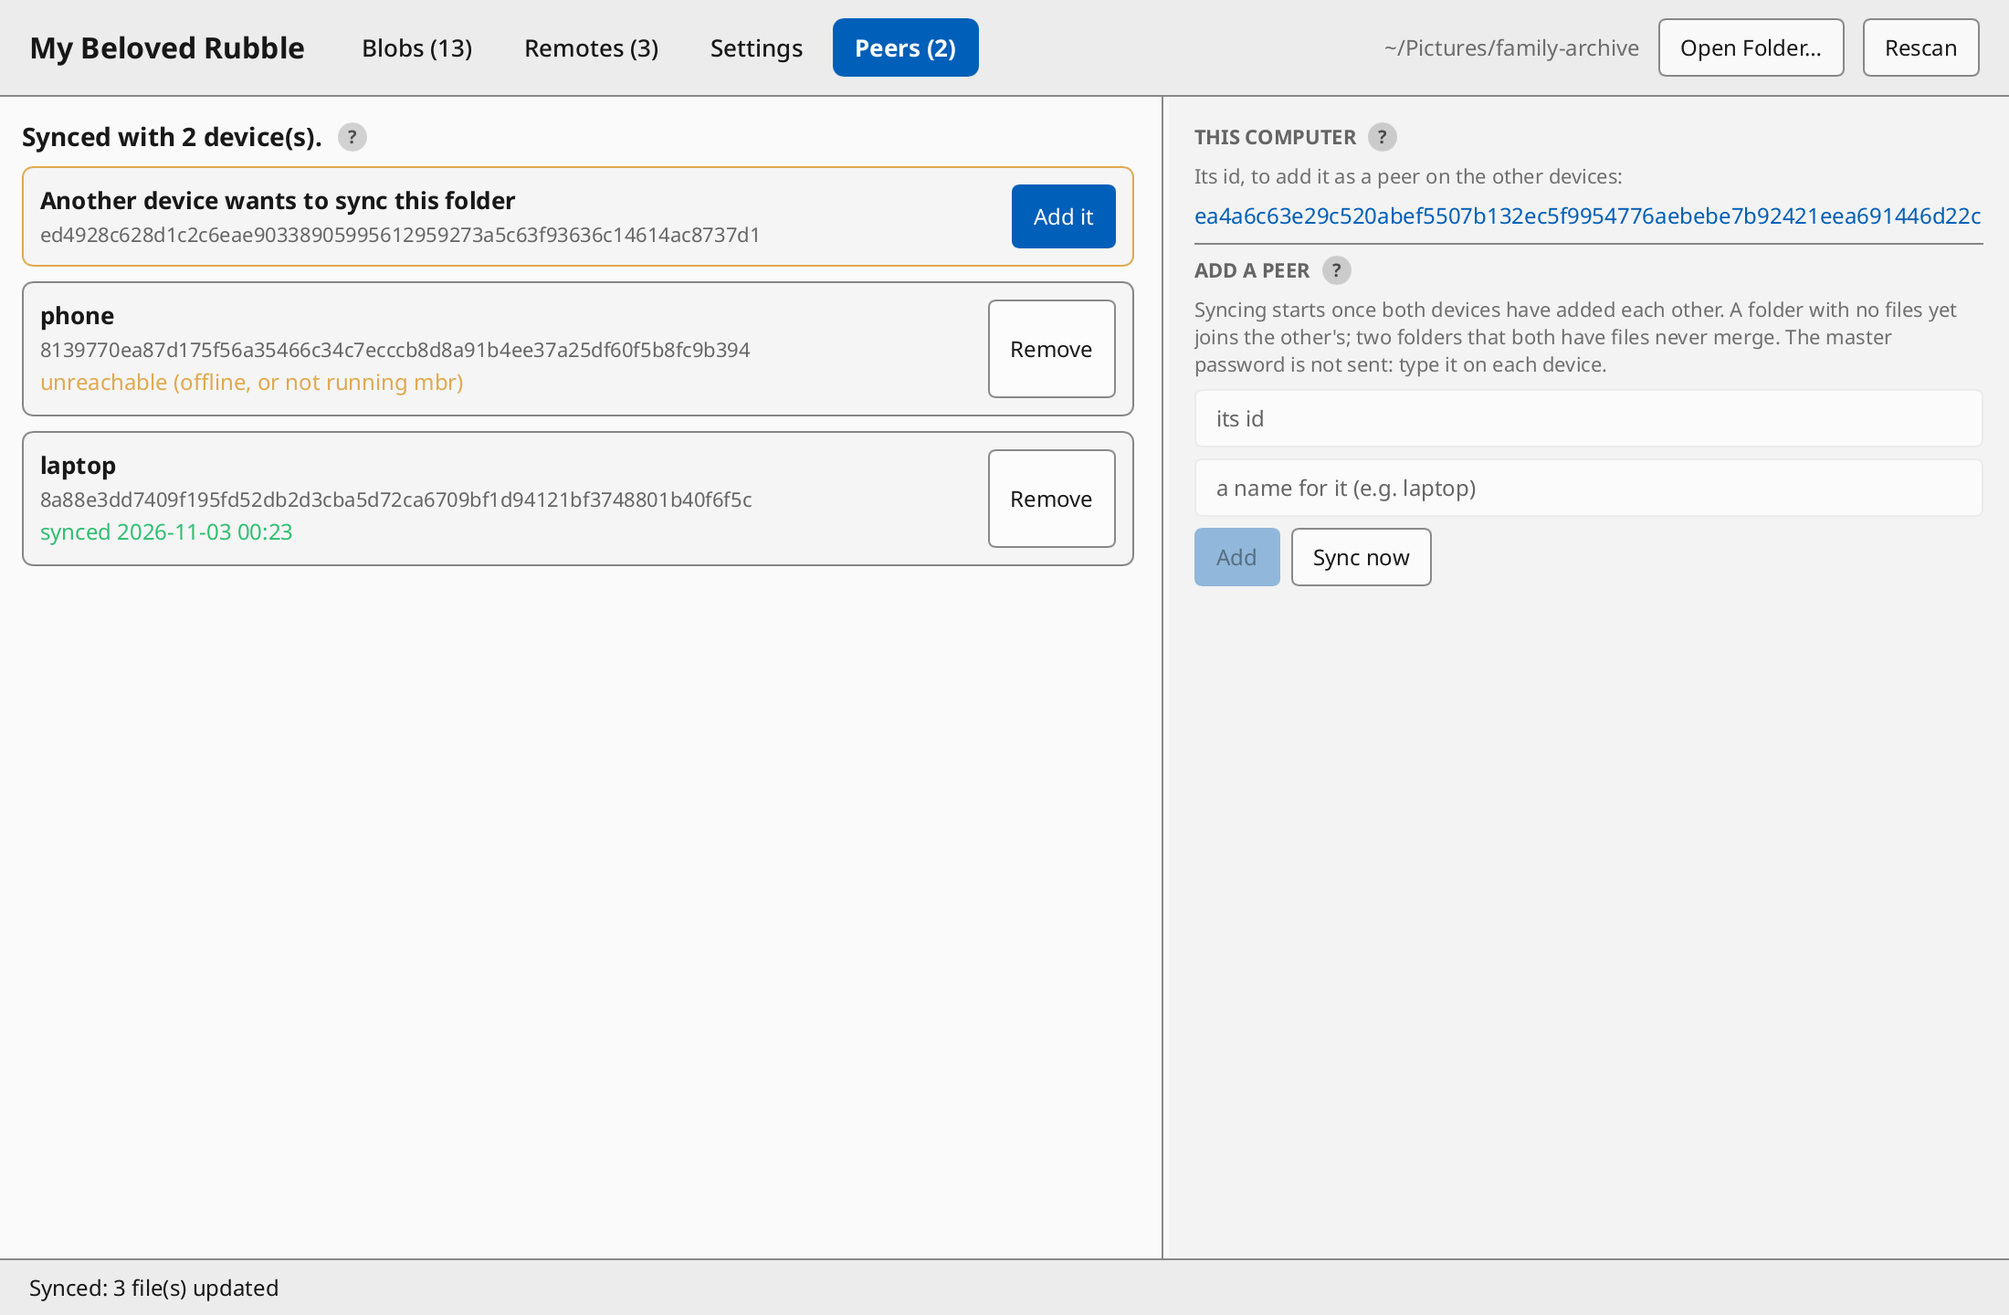
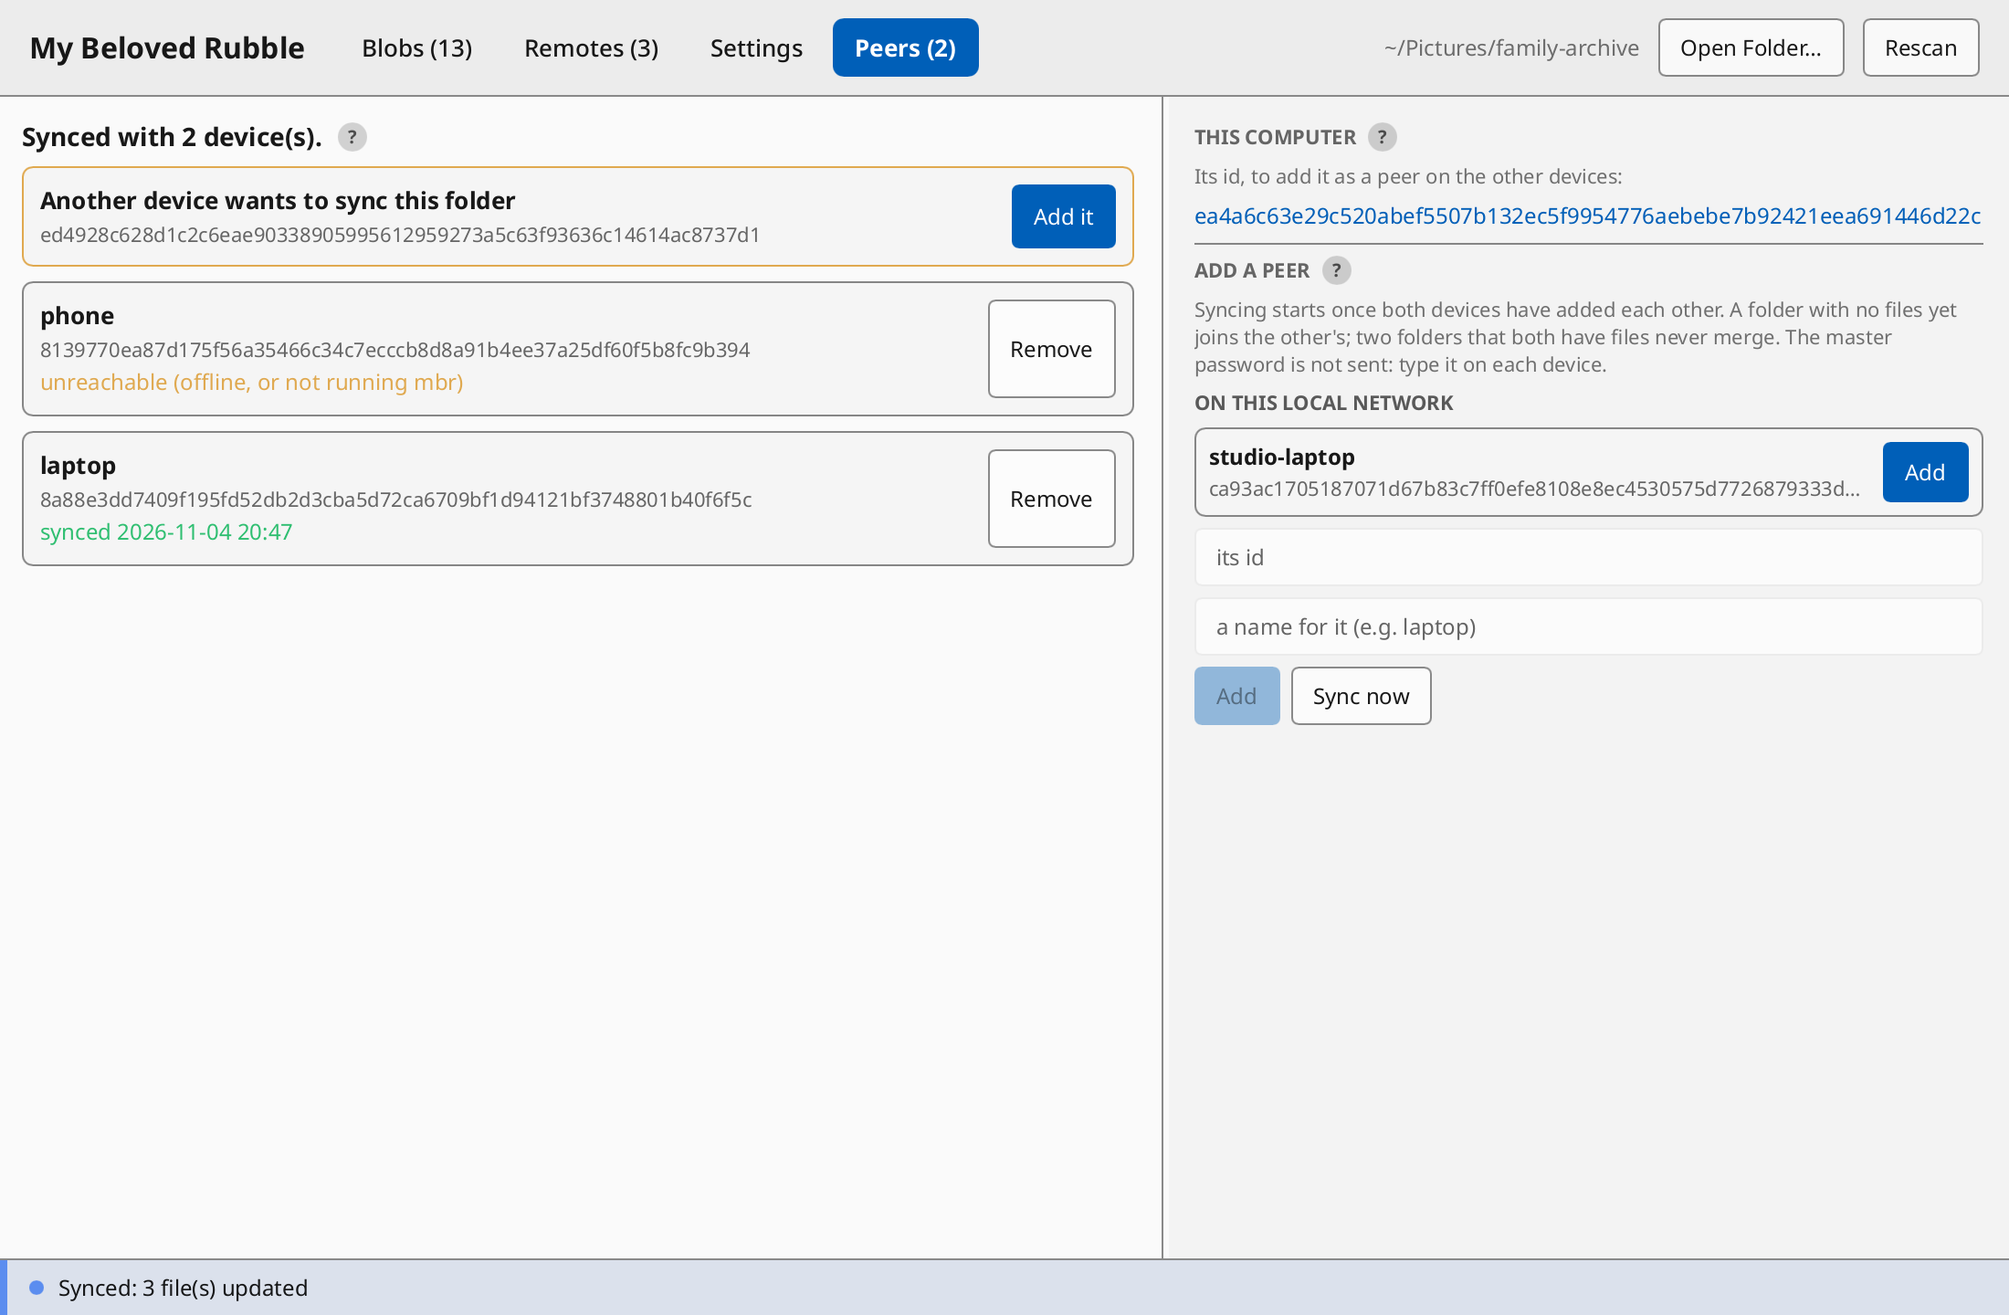
Suggest local network peers in the add-peer screen

Changed region(s): [[0.5873, 0.2812, 0.8964, 0.5625], [0.9273, 0.3125, 0.9891, 0.4062], [0.0, 0.9688, 0.1545, 1.0]]

diff --git a/src/gui.rs b/src/gui.rs
@@ -175,7 +175,12 @@ impl Msg {
     /// Whether handling the message may change what the views show
     /// beyond what it updates itself.
     fn changes_the_folder(&self) -> bool {
-        !matches!(self, Msg::Thumb { .. } | Msg::Preview { .. })
+        !matches!(
+            self,
+            Msg::Thumb { .. }
+                | Msg::Preview { .. }
+                | Msg::Peer(peers::Event::Discovered { .. } | peers::Event::Gone { .. })
+        )
     }
 }
 
@@ -302,6 +307,9 @@ struct App {
     peer_status: RefCell<BTreeMap<String, (String, bool)>>,
     /// Devices that tried to sync but aren't peers.
     knocking: RefCell<BTreeSet<String>>,
+    /// mbr devices found on the local network, by id: their suggested
+    /// names, if they say.
+    nearby: RefCell<BTreeMap<String, String>>,
     /// A sync brought changes in during a scan: applied once it ends.
     sync_pending: Cell<bool>,
     /// Previews of image files, by blob hash, for the file list.
@@ -595,6 +603,7 @@ pub fn run() -> Result<(), slint::PlatformError> {
         node: RefCell::new(None),
         peer_status: RefCell::new(BTreeMap::new()),
         knocking: RefCell::new(BTreeSet::new()),
+        nearby: RefCell::new(BTreeMap::new()),
         sync_pending: Cell::new(false),
         thumbs: RefCell::default(),
         no_thumb: RefCell::default(),
@@ -902,6 +911,10 @@ pub fn run() -> Result<(), slint::PlatformError> {
     }
     {
         let app = app.clone();
+        w.on_peers_visible(move |visible| app.peers_visible(visible));
+    }
+    {
+        let app = app.clone();
         w.on_remove_peer(move |id| app.remove_peer(&id));
     }
     {
@@ -1082,6 +1095,7 @@ impl App {
         *self.selection.borrow_mut() = Selection::default();
         self.peer_status.borrow_mut().clear();
         self.knocking.borrow_mut().clear();
+        self.nearby.borrow_mut().clear();
         self.sync_pending.set(false);
         self.close_editor();
         self.start_node();
@@ -1097,6 +1111,9 @@ impl App {
         *self.selection.borrow_mut() = Selection::default();
         self.close_editor();
         self.reset_setup_ui();
+        self.peer_status.borrow_mut().clear();
+        self.knocking.borrow_mut().clear();
+        self.nearby.borrow_mut().clear();
         self.refresh();
     }
 
@@ -1857,7 +1874,30 @@ impl App {
 
     // ── peers ──
 
-    /// Start syncing the open folder with its peers, if it has any.
+    /// Listen for devices on the local network while the Peers tab is
+    /// shown, even with no peers yet, and stop again when it is left (a
+    /// folder with peers keeps syncing regardless).
+    fn peers_visible(&self, visible: bool) {
+        if visible {
+            if self.node.borrow().is_none() {
+                self.start_node();
+            } else {
+                self.refresh_peers();
+            }
+            return;
+        }
+        let has_peers = self
+            .root()
+            .is_some_and(|root| !self.state.borrow().repo(&root).peers.is_empty());
+        if !has_peers {
+            *self.node.borrow_mut() = None;
+            self.nearby.borrow_mut().clear();
+        }
+        self.refresh_peers();
+    }
+
+    /// Start syncing the open folder with its peers (and, while the Peers
+    /// tab is open, listening for devices on the local network).
     fn start_node(&self) {
         *self.node.borrow_mut() = None;
         let Some(root) = self.root() else { return };
@@ -1868,8 +1908,10 @@ impl App {
             (key, repo_state.peers.keys().cloned().collect::<Vec<_>>())
         };
         self.save_state();
-        // No network activity for folders that aren't synced.
-        if ids.is_empty() {
+        // No network activity for folders that aren't synced, unless the
+        // Peers tab is open: then listen for devices to suggest on the
+        // local network.
+        if ids.is_empty() && self.window.get_active_tab() != 3 {
             return;
         }
         let Some(shared) = self.repo.borrow().as_ref().map(|r| r.db.shared()) else {
@@ -1968,7 +2010,7 @@ impl App {
             .keys()
             .cloned()
             .collect();
-        if ids.is_empty() {
+        if ids.is_empty() && self.window.get_active_tab() != 3 {
             *self.node.borrow_mut() = None;
         } else if let Some(node) = self.node.borrow().as_ref() {
             node.set_peers(&ids);
@@ -2015,6 +2057,20 @@ impl App {
                     self.knocking.borrow_mut().insert(peer);
                 }
             }
+            peers::Event::Discovered { peer, name } => {
+                let changed = match self.nearby.borrow_mut().insert(peer, name.clone()) {
+                    None => true,
+                    Some(previous) => previous != name,
+                };
+                if changed {
+                    self.refresh_peers();
+                }
+            }
+            peers::Event::Gone { peer } => {
+                if self.nearby.borrow_mut().remove(&peer).is_some() {
+                    self.refresh_peers();
+                }
+            }
         }
     }
 
@@ -2050,6 +2106,8 @@ impl App {
         let Some(root) = self.root() else {
             w.set_device_id(SharedString::default());
             w.set_peer_rows(ModelRc::default());
+            w.set_nearby_peers(ModelRc::default());
+            w.set_discovering(false);
             w.set_peer_count(0);
             return;
         };
@@ -2088,6 +2146,23 @@ impl App {
         }));
         w.set_peer_count(known.len() as i32);
         w.set_peer_rows(ModelRc::new(VecModel::from(rows)));
+
+        let self_id = peers::device_id(&key);
+        let knocking = self.knocking.borrow();
+        let nearby: Vec<NearbyPeer> = self
+            .nearby
+            .borrow()
+            .iter()
+            .filter(|(id, _)| {
+                **id != self_id && !known.contains_key(*id) && !knocking.contains(*id)
+            })
+            .map(|(id, name)| NearbyPeer {
+                id: id.as_str().into(),
+                name: name.as_str().into(),
+            })
+            .collect();
+        w.set_nearby_peers(ModelRc::new(VecModel::from(nearby)));
+        w.set_discovering(self.node.borrow().is_some() && w.get_active_tab() == 3);
     }
 
     /// Snapshot the metadata here, then encrypt and upload it to every

diff --git a/src/peers.rs b/src/peers.rs
@@ -28,11 +28,13 @@
 //! [iroh]: https://iroh.computer
 
 use crate::db::Shared;
-use iroh::address_lookup::MemoryLookup;
+use iroh::address_lookup::{MemoryLookup, UserData};
 use iroh::endpoint::{Connection, RecvStream, SendStream, VarInt, presets};
 use iroh::{Endpoint, EndpointAddr, EndpointId, SecretKey};
 use iroh_docs::SyncOutcome;
 use iroh_docs::sync::ProtocolMessage;
+use iroh_mdns_address_lookup::{DiscoveryEvent, MdnsAddressLookup};
+use n0_future::StreamExt;
 use serde::{Deserialize, Serialize};
 use std::collections::BTreeSet;
 use std::sync::{Arc, Mutex};
@@ -40,6 +42,9 @@ use std::time::Duration;
 
 /// The sync protocol, as iroh negotiates it.
 pub const ALPN: &[u8] = b"mbr/sync/0";
+/// The mDNS service name mbr devices advertise, so discovery finds other
+/// mbr devices rather than every iroh endpoint on the network.
+const MDNS_SERVICE: &str = "mbr";
 /// The largest message accepted.
 const MAX_MESSAGE: usize = 64 << 20;
 /// How long finding and reaching a peer may take.
@@ -68,6 +73,11 @@ pub enum Event {
     Failed { peer: String, error: String },
     /// A device that isn't a peer tried to sync: add it to sync with it.
     Refused { peer: String },
+    /// A device running mbr was found on the local network. `name` is what
+    /// it calls itself, if it says.
+    Discovered { peer: String, name: String },
+    /// A discovered device stopped announcing itself.
+    Gone { peer: String },
 }
 
 #[derive(Serialize, Deserialize)]
@@ -128,6 +138,21 @@ pub fn check_device_id(id: &str) -> Result<String, String> {
         .map_err(|_| format!("'{}' is not a device id", id.trim()))
 }
 
+/// What this device calls itself in discovery, if anything: a hostname,
+/// so other devices can suggest a friendlier name than the id.
+fn local_name() -> Option<UserData> {
+    let name = ["MBR_DEVICE_NAME", "HOSTNAME", "COMPUTERNAME"]
+        .iter()
+        .find_map(|key| std::env::var(key).ok())
+        .or_else(|| std::fs::read_to_string("/proc/sys/kernel/hostname").ok())
+        .or_else(|| std::fs::read_to_string("/etc/hostname").ok())?;
+    let name = name.trim();
+    if name.is_empty() {
+        return None;
+    }
+    UserData::try_from(name.to_owned()).ok()
+}
+
 type Listener = Arc<dyn Fn(Event) + Send + Sync>;
 
 /// The folder's iroh endpoint: accepts syncs from its peers, and syncs
@@ -159,24 +184,40 @@ impl Node {
             .build()
             .map_err(|e| e.to_string())?;
         let known = MemoryLookup::new();
-        let endpoint = rt.block_on(async {
-            let endpoint = Endpoint::builder(presets::N0)
+        let (endpoint, mdns) = rt.block_on(async {
+            let mut builder = Endpoint::builder(presets::N0)
                 .secret_key(SecretKey::from_bytes(&key))
                 .alpns(vec![ALPN.to_vec()])
-                .address_lookup(known.clone())
+                .address_lookup(known.clone());
+            if let Some(name) = local_name() {
+                builder = builder.user_data_for_address_lookup(name);
+            }
+            let endpoint = builder
                 .bind()
                 .await
                 .map_err(|e| format!("cannot start syncing: {e}"))?;
             // Peers on the same network find each other without the
             // internet, where the network allows it.
-            match iroh_mdns_address_lookup::MdnsAddressLookup::builder().build(endpoint.id()) {
+            let mdns = match MdnsAddressLookup::builder()
+                .service_name(MDNS_SERVICE)
+                .build(endpoint.id())
+            {
                 Ok(mdns) => match endpoint.address_lookup() {
-                    Ok(lookup) => lookup.add(mdns),
-                    Err(e) => log::warn!("no local network discovery: {e}"),
+                    Ok(lookup) => {
+                        lookup.add(mdns.clone());
+                        Some(mdns)
+                    }
+                    Err(e) => {
+                        log::warn!("no local network discovery: {e}");
+                        None
+                    }
                 },
-                Err(e) => log::warn!("no local network discovery: {e}"),
-            }
-            Ok::<_, String>(endpoint)
+                Err(e) => {
+                    log::warn!("no local network discovery: {e}");
+                    None
+                }
+            };
+            Ok::<_, String>((endpoint, mdns))
         })?;
         let node = Self {
             rt,
@@ -193,6 +234,33 @@ impl Node {
             node.peers.clone(),
             node.listener.clone(),
         ));
+        if let Some(mdns) = mdns {
+            let listener = node.listener.clone();
+            let known = node.known.clone();
+            node.rt.spawn(async move {
+                let mut events = mdns.subscribe().await;
+                while let Some(event) = events.next().await {
+                    match event {
+                        DiscoveryEvent::Discovered { endpoint_info, .. } => {
+                            // Keep the address, so adding the device can
+                            // sync with it even if its mDNS record expires.
+                            known.add_endpoint_info(endpoint_info.to_endpoint_addr());
+                            listener(Event::Discovered {
+                                peer: endpoint_info.endpoint_id.to_string(),
+                                name: endpoint_info
+                                    .user_data()
+                                    .map(|name| name.to_string())
+                                    .unwrap_or_default(),
+                            });
+                        }
+                        DiscoveryEvent::Expired { endpoint_id } => listener(Event::Gone {
+                            peer: endpoint_id.to_string(),
+                        }),
+                        _ => {}
+                    }
+                }
+            });
+        }
         Ok(node)
     }
 

diff --git a/src/screenshots.rs b/src/screenshots.rs
@@ -223,9 +223,12 @@ pub fn run(out: &Path) -> Result<(), slint::PlatformError> {
         ("unreachable (offline, or not running mbr)".into(), false),
     );
     app.knocking.borrow_mut().insert(desktop);
+    app.nearby
+        .borrow_mut()
+        .insert(peers::device_id(&[4u8; 32]), "studio-laptop".into());
+    app.window.set_active_tab(3);
     app.refresh();
     app.window.set_folder(DISPLAY_PATH.into());
-    app.window.set_active_tab(3);
     app.window
         .set_status_text("Synced: 3 file(s) updated".into());
     s.shoot("peers");
@@ -295,6 +298,7 @@ fn new_app() -> App {
         node: RefCell::new(None),
         peer_status: RefCell::new(BTreeMap::new()),
         knocking: RefCell::new(BTreeSet::new()),
+        nearby: RefCell::new(BTreeMap::new()),
         sync_pending: Cell::new(false),
         thumbs: RefCell::default(),
         no_thumb: RefCell::default(),

diff --git a/src/cli.rs b/src/cli.rs
@@ -1435,6 +1435,7 @@ fn sync(repo: &mut Repo, watch: bool) -> Result<(), String> {
             Event::Refused { peer } => {
                 println!("device {peer} tried to sync: `mbr peer add {peer}` to sync with it")
             }
+            Event::Discovered { .. } | Event::Gone { .. } => {}
         }
     }
 }

diff --git a/docs/content/peers.md b/docs/content/peers.md
@@ -11,7 +11,7 @@ directly when they are on the same network, through a relay otherwise. The files
 it lives on the [remotes](../remotes/), and each device downloads what it needs from them.
 
 <p align="center">
-  <img src="../screenshots/peers.png" alt="The Peers tab: two peers and a device asking to sync">
+  <img src="../screenshots/peers.png" alt="The Peers tab: two peers, a device asking to sync, and one found on the local network">
 </p>
 
 ## Adding a device
@@ -20,6 +20,10 @@ Every device has an id for each folder, shown in the **Peers** tab under **This 
 devices, add each one's id on the other: **Add a peer** (`mbr peer add <id> --name laptop`). Syncing starts once *both*
 have added each other; until then the one that was added says *waiting for them to add this device as a peer*. A device
 that isn't a peer but tries to sync shows up in the list, with **Add it**.
+
+While the **Peers** tab is open, mbr also looks for other mbr devices on the same local network. They appear under
+**Add a peer** with the name each one announces, and **Add** adds one without typing its id. This is how to bring a
+folder to a new device without copying long ids around.
 
 To bring a folder to a new device, start a new, empty mbr folder there, and add the two devices to each other. The empty
 folder *joins* the other's: everything it recorded is replaced by the other device's metadata, and every file appears as
@@ -30,13 +34,15 @@ and two folders that both have files never merge: they are different folders.
 
 The password is never sent. A device that joined a folder knows the folder is encrypted, but has to be told the password:
 type it in Settings (**Enter the master password**, or `mbr config password`). The remotes become usable there once it
-is typed, with the same settings and sign-ins as on the other devices.
+is typed, with the same settings and sign-ins as on the other devices. Remotes of the **Local disk or directory** kind
+are the exception: their path belongs to the machine that set them up, so they stay there and are never synced.
 
 ## When syncing happens
 
 The app syncs with every peer when the folder is opened, after every scan, every minute, and on **Sync now**. From the
 command line, `mbr sync` scans and syncs once; `mbr sync --watch` keeps running, accepting the peers' syncs and syncing
-every minute. A folder with no peers makes no network connections.
+every minute. A folder with no peers makes no network connections unless the **Peers** tab is open, where it listens for
+devices on the local network.
 
 Changes from a peer show up in the folder: new files appear as links, removed ones go, replaced ones point at their new
 content. A file changed on this device since the last scan is left alone; the next scan records it, and since it is the

diff --git a/README.md b/README.md
@@ -188,7 +188,7 @@ The backup's database and rclone config become the folder's, so its remotes, fol
 
 ## Syncing between devices
 
-A folder can live on several devices that sync its metadata over [iroh](https://iroh.computer) (the Peers tab, or `mbr peer` and `mbr sync`). Each device has an id per folder (an iroh endpoint key kept in `local.json`); two devices sync once each has added the other's id. A new device starts an empty folder, which *joins* the other's: it is handed the iroh-docs namespace secret and adopts it. Two folders that both hold files never merge.
+A folder can live on several devices that sync its metadata over [iroh](https://iroh.computer) (the Peers tab, or `mbr peer` and `mbr sync`). Each device has an id per folder (an iroh endpoint key kept in `local.json`); two devices sync once each has added the other's id. While the Peers tab is open, mbr also discovers other mbr devices on the local network and offers to add them. A new device starts an empty folder, which *joins* the other's: it is handed the iroh-docs namespace secret and adopts it. Two folders that both hold files never merge.
 
 A sync is iroh-docs set reconciliation of the entries, then an exchange of the few values entries point at (settings, remotes); the newest entry of each key wins, whichever device wrote it. Synced changes become links in the folder (dangling until downloaded from a remote), except for files changed locally since the last scan, which the next scan records as the newest change. Blob content never travels between devices, and neither does the master password: each device types it, checked against the check in the metadata.
 
